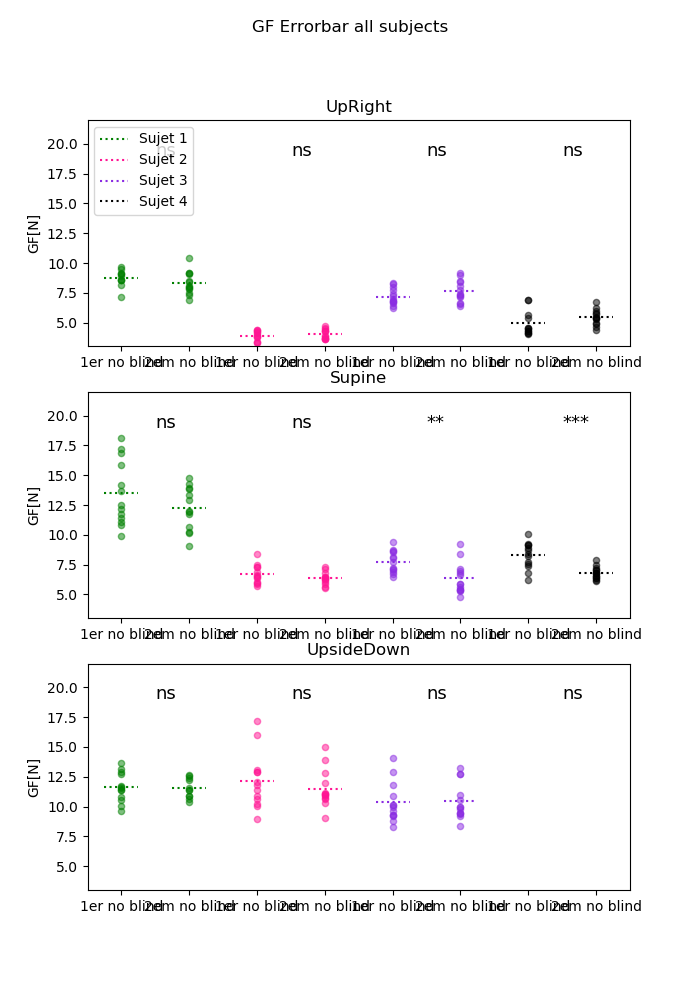
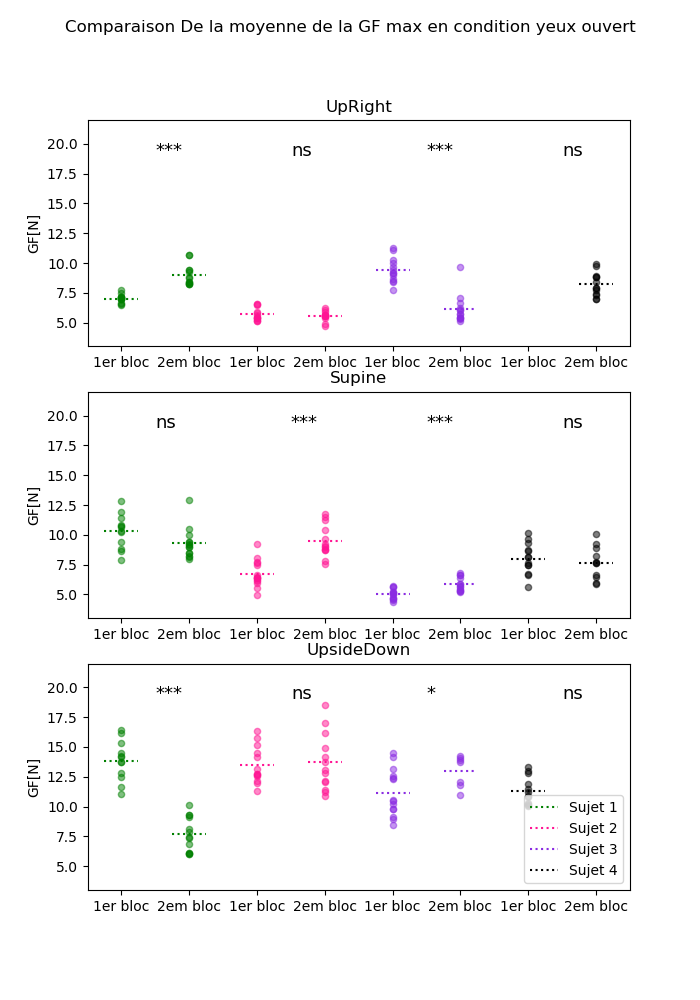
update code

diff --git a/codepython/GF/allsubjectsjustpvalue.py b/codepython/GF/allsubjectsjustpvalue.py
@@ -11,7 +11,7 @@ import processing_tools as tool
 
 import glm_data_processing as glm
 
-ntrials = [2, 3, 4, 5]  # /!\ changer noms de fichiers
+ntrials = [4, 5]  # /!\ changer noms de fichiers
 positions = ['UR', 'SP', 'UD']
 names = ['GD', 'PDs', 'LH', 'MH']
 colors = ['plum', 'aquamarine', 'aquamarine', 'royalblue', 'royalblue']
@@ -146,9 +146,9 @@ for p, ax in zip(positions, tup):
             GFmax = []
             for i in range(len(cycle_starts)):
                 id = np.where((time > time1[cycle_starts[i]]) & (time < time1[cycle_ends[i]]))
-                if n==2:
+                if n == 4:
                     openarray1.append(np.nanmax(GF[id]))
-                if n==3:
+                if n == 5:
                     openarray2.append(np.nanmax(GF[id]))
 
         X1 = sm2.DescrStatsW(openarray1)
@@ -165,7 +165,7 @@ for p, ax in zip(positions, tup):
         plotarray2 = np.zeros(50) + box[1]
         indexscatter1 = np.zeros(len(openarray1)) + index[0]
         indexscatter2 = np.zeros(len(openarray2)) + index[1]
-        if ax == ax1:
+        if ax == ax3:
             ax.plot(indexgraph1, plotarray1, linestyle='dotted', color=sujetcolor[name],
                     label=sujet[name])
             ax.scatter(indexscatter1, openarray1, color=sujetcolor[name], alpha=0.5, s=20)
@@ -182,11 +182,11 @@ for p, ax in zip(positions, tup):
     ax.set_xlim(0.85, 2.15)
     ax.set_xticks([1, 2, 3, 4, 5, 6, 7, 8])
     ax.set_xlim(0.5, 8.5)
-    ax.set_xticklabels(["1er no blind", '2em no blind', "1er no blind", '2em no blind', "1er no blind", '2em no blind', "1er no blind", '2em no blind'])
+    ax.set_xticklabels(["1er bloc", '2em bloc', "1er bloc", '2em bloc', "1er bloc", '2em bloc', "1er bloc", '2em bloc'])
     ax.set_title("%s" % positionsdico[p])
     ax.set_ylabel("GF[N]")
-    if p == 'UR':
-        ax.legend(loc="upper left")
+    if p == 'UD':
+        ax.legend(loc="lower right")
         # ax.set_xlabel('blocs(#)')
-fig.suptitle("GF Errorbar all subjects")
+fig.suptitle("Comparaison De la moyenne de la GF max en condition yeux ouvert")
 plt.savefig("errorbar_en_GF_for_allpvalue.png")
